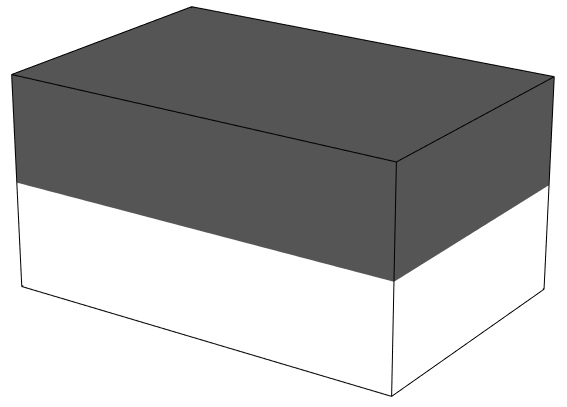
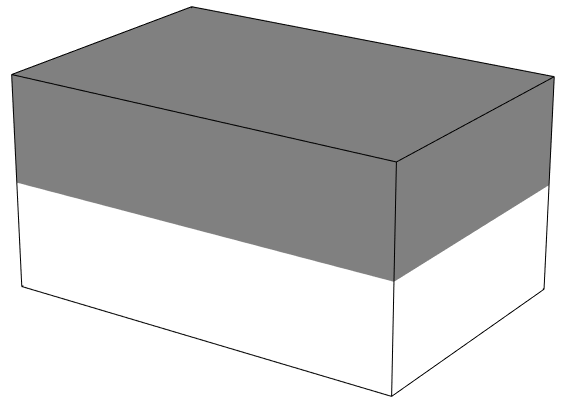
Introduction: update dip-coating figure colours
See yawnoc/phd-code@d63910b32e7.
'Actual coating profile' subfigure now looks like Totoro.

diff --git a/introduction.tex b/introduction.tex
@@ -376,7 +376,7 @@ adhesion (liquid--wall attraction), and gravity.
   \end{subfigure}
   \hspace*{\fill}
   \caption{
-    Dip-coating a prism~\figurestyle{dark} in a liquid~\figurestyle{light}.
+    Dip-coating a prism~\figurestyle{grey} in a liquid~\figurestyle{white}.
   }
   \label{fig:dip_coating}
 \end{figure}
